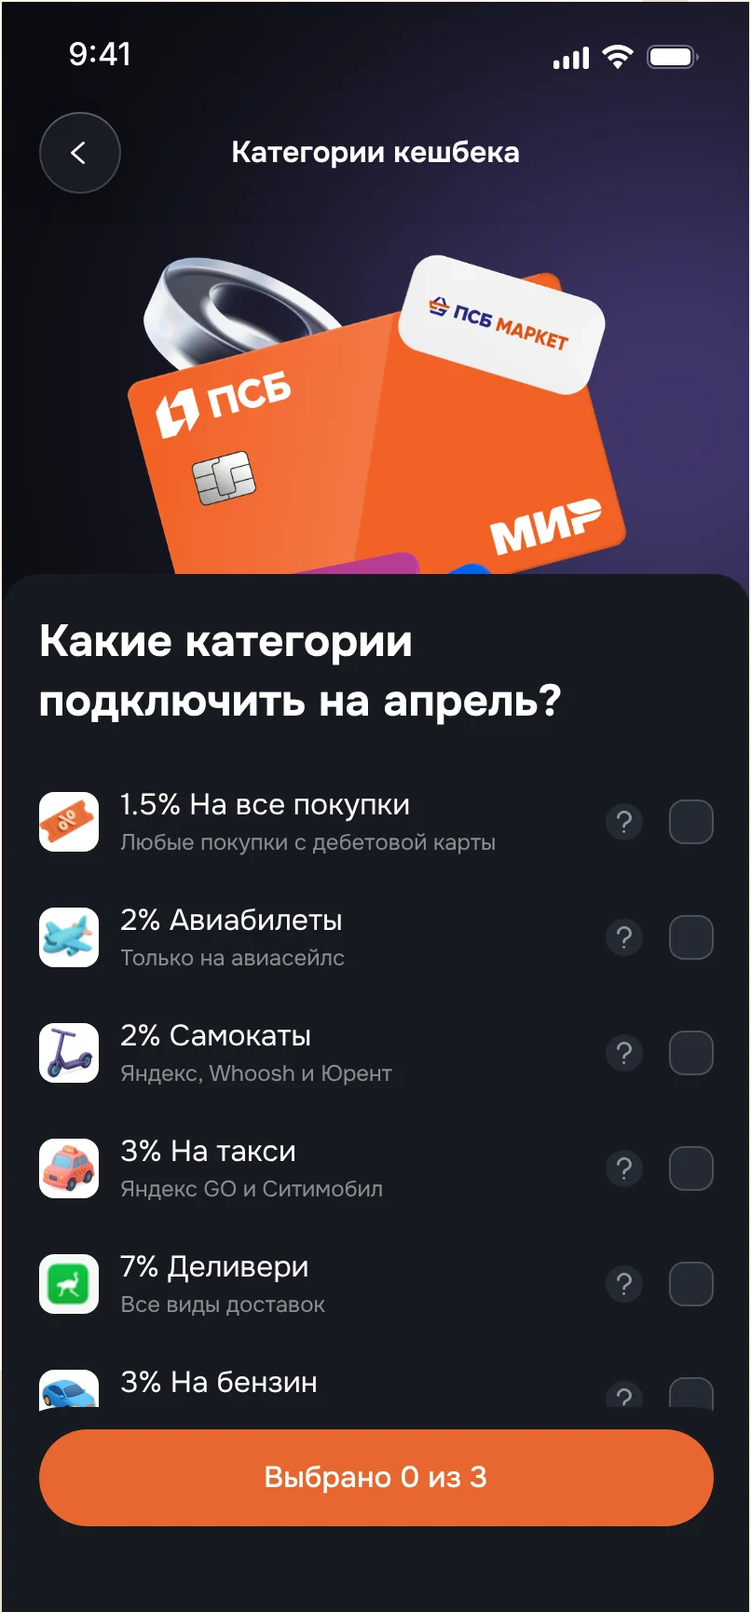
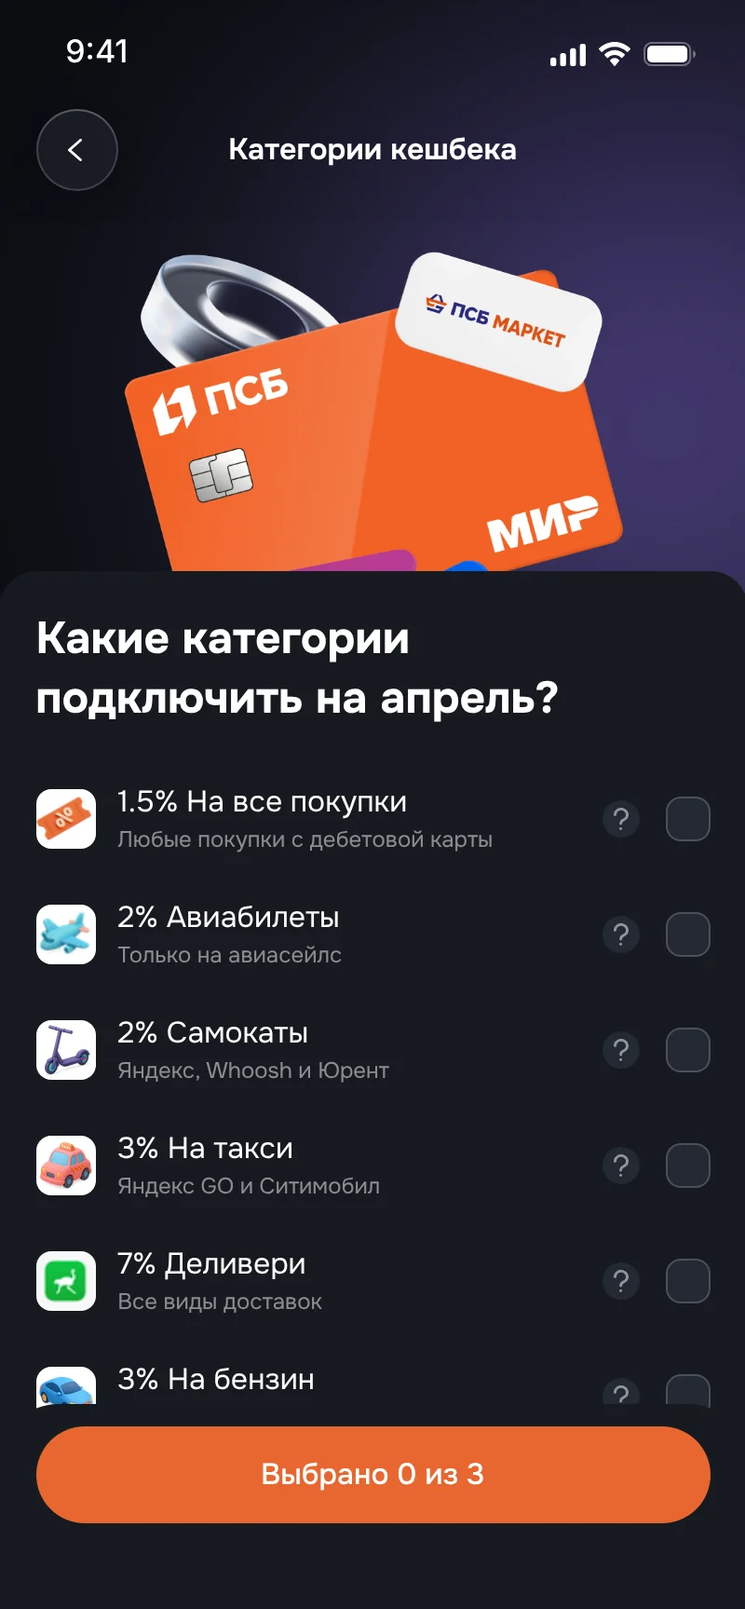
Crop the page background off the edges of the PSB race screens
Claude-Session: https://claude.ai/code/session_01K9M4KKip7VrCMi121CRaVU

diff --git a/CLAUDE.md b/CLAUDE.md
@@ -41,5 +41,5 @@
 - Готово (ветка `claude/wonderful-wright-xhhyv3`, слита в `main`): разгрузка обзора PSB — владелец счёл блоки «Проблемы и решения» и «Результаты» слишком тяжёлыми («слишком много акцентов одновременно»). Было шесть цветов, восемь плашек, десять крупных элементов, три анимации. Сделано: «Результаты» без плашек — шкалы прямо на листе, сетка 2×2 с пунктирами, как HUD Зельды поверх мира; все шкалы голубые, числа цвета чернил, розовые только сердечки (токены `--mana-*`, `--stamina-*`, `--heart-text` удалены). В колоде заданий без спрайтов и анимации, стрелка серая (`--text-disabled`), решение обычной насыщенности. Единственное движение на экране — шкалы. Затем по замечаниям владельца: подписи в карточках колоды и шкал — полужирные цвета чернил в размере основного текста (мелкие серые «Главная», «Данные карты» терялись); в «Результатах» сначала число, под ним шкала, между шагами и временем 24px, вокруг пунктиров `--space-stack` (было слипшимся). «Результаты» всё равно были «тяжеловато и скомканно» — переделаны в ряд метрик одной структуры (`Hud.astro`, по руководству dataviz: KPI-ряд одинаковых плиток): подпись, крупное число Fira Sans semibold с мелкой единицей, строки пояснения, одна шкала, прижатая к низу, чтобы шкалы стояли на одной линии. Четыре в ряд (контейнер ≤720px — 2×2), без плашек и пунктиров. Время — одна полоса: светлый трек того же голубого — «было», заливка — «стало»; ячейки шагов убраны, шаги в пояснении («5 шагов вместо 12»); мана — полоса; лёгкость — сердечки. Отступы проверены замером по закону близости (NN/g «Proximity»: заголовок ближе к своему тексту, чем к предыдущему; правило «внутри ≤ снаружи», равенство делает группы неоднозначными): заголовок блока → содержимое 16px, между карточками колоды 24px (рамка сайта; было 20 = внутреннему полю), колонки метрик 40px (на ≤720px — 24), сноска под метриками на 40px, как ряды. В метрике шкала сразу под числом (12px), пояснения под шкалой: раньше шкала прижималась к низу и отрывалась от числа. На телефоне общее `.sheet > * + * { 24px }` перебивало отступ подразделов — для `.sub-title`, `.quests`, `.results` там 48px.
 - Готово (ветка `claude/wonderful-wright-xhhyv3`, слита в `main`): «Результаты» PSB — шкалы, как в Зельде (`components/case/Hud.astro`, данные `stats` в `psb.astro`, запуск `initHud` в `case.ts`). Шаги — ячейки, лишние гаснут с конца; время — две полосы выносливости «было/стало» (зелёная), «стало» сжимается от прежней длины; first click success — мана (лиловая); SEQ — семь сердечек (розовые), неполное заливается целыми пикселями. Играют один раз при появлении, при reduced motion и без JS сразу конечное состояние. Цифры в тон шкале, затемнённые до 3:1 (токены `--mana-*`, `--stamina-*`, `--heart-*` в `colors.css`, полосы — цвета поляны футера), шаги остаются голубыми; Fira Mono (у Handjet перечёркнутый ноль, 105 читалось как 185). Владелец выбрал их из трёх набросков; не выбраны окно итогов боя в духе Final Fantasy и «сравнение снаряжения». Обзор: вступление — история, «Задания» — пары «проблема → решение», «Результаты» — цифры. Блок «Проблемы и решения» (раньше «Задания», переименовал владелец; `components/case/QuestDeck.astro`, данные `quests` в `psb.astro`) — колода карточек, рифмуется с «Результатами»: те же карточки (`--surface-raised`, пиксельные углы) в той же сетке 2×2, сверху подпись (спрайт 2px на пиксель + название-ссылка на раздел), ниже приглушённая проблема, голубая пиксельная стрелка вниз и крупно решение — как большое число на шкалах; стрелка с решением прижаты к низу, чтобы решения в ряду стояли на одной линии. При появлении стрелки по очереди «шагают» вниз (тот же `initHud` через `data-hud`), при reduced motion сразу. Зачёркивание проблемы владелец отклонил (читается хуже, похоже на ошибку); не выбраны также подписи «Было / Стало», значки «!» и галочки, пунктир. На телефоне (контейнер ≤560px) колода листается свайпом по одной карточке со scroll-snap, следующая выглядывает, под ней точки (`initQuestDeck` в `case.ts`). В карточке по одной целой мысли на проблему и на решение, понятной без раздела ниже: сокращения до 4–6 слов («Третья вкладка и CVV по СМС») владелец счёл непонятными; слово из подписи в тексте не повторять («Их можно…»). Иконки заголовков — пиксельные `scroll` (свиток задания, закрученный край сверху и валик снизу; симметричный вариант читался как колонна) и `trophy` (кубок у «Результатов»: столбики графика владелец счёл неподходящими); неиспользуемые `alert`, `spark`, `trend` удалены из `pixel-icons.ts`. Отклонены: полоса из четырёх столбцов (на телефоне «месиво»), две колонки абзацев («простыня текста»), задания внутри карточек результатов. Перед «Заданиями» и «Результатами» отступ `--space-article`, как между подразделами: с обычным отступом вступление, задания и результаты сливались в один поток. Главное в блоке — связка проблемы и решения: убрать проблемы ради разгрузки было ошибкой (владелец: «должны показать проблему и её решение»). «Результаты» — четыре карточки: кешбэк и данные карты (в каждой шаги ячейками и время полосами, `kind: 'flow'` в `Hud.astro`), мана и сердечки. Владелец отклонил: журнал с вкладками (тёмная активная вкладка и плашки тяжелы рядом со шкалами; прятать суть кейса во вкладки нельзя — NN/g «Tabs, Used Right», GOV.UK «tabs hide content», нанимающие сканируют портфолио), добычу (монеты, рупии) в заданиях — перегруз мелкими элементами и повтор цифр результатов, «дебафф → бафф», статус-эффекты, карточки предметов, плашки с отрядом.
 - Готово (ветка `claude/charming-cray-bsbm8d`): на телефоне страница PSB больше не прокручивается вбок в пустоту — скрытые подписи «Было/Стало» в колоде «Проблемы и решения» (`position: absolute`) вылезали из свайп-ленты и растягивали страницу вдвое; `.quest` теперь `position: relative`. Живые прототипы снова на Onest: приложение задаёт шрифт на `<body>`, которого в shadow root нет, и туда протекал Fira Sans страницы — шрифт задан на `.app` в `LivePhone.astro`.
-- Готово (ветка `claude/loving-mayer-3zliux`): «до/после» в разделе «Подключение кешбэка» PSB — забег (`components/case/Race.astro`, `initRace` в `case.ts`, данные `race` у направления в `psb.astro`). Владелец выбрал его из трёх набросков; не выбраны маршрут (дорога в масштабе времени) и стопки экранов, отклонены две карусели и сетка маленьких экранов «до». Два iPhone 17 Pro рядом, «Было» и «Стало», стартуют вместе, когда забег на экране, и идут по измеренным медианам (105 и 23 с), ускоренно в 7 раз; вне экрана пауза, кнопка «Ещё раз». Экраны распределены по времени равномерно (время отдельных шагов не мерили), следующий въезжает коротким сдвигом поверх прежнего. Под телефоном полоса времени в общем масштабе (по самому долгому пути: «Было» заполняет её целиком серым, «Стало» останавливается на 23 с голубым; сегментированные ячейки владелец забраковал), таймер Fira Sans, «Шаг N из M · подпись экрана», на финише «кешбэка нет» / «готово». Когда старый путь уходит из приложения, у подписи «Было» голубым «почта» / «браузер» (`away`). Без JS и при reduced motion — финиш. `Phone` принимает массив экранов (видим `is-on`, по умолчанию последний). Экраны «до» — исходный флоу из Figma-файла PSB (секция «Пользователь подключает кешбэк», node 28-489), 11 штук `public/assets/cases/psb/before/cb-*.webp` 590×1280, последний — та же главная без кешбэка. Экраны вычищены под iPhone скриптом `tools/psb-before/render.mjs` (canvas в Chromium, исходники из Figma в `tools/psb-before/src/`): Android-статусбар и панель кнопок заменены статусбаром iOS «9:41» и полоской «домой», у iOS-экранов статусбар перерисован так же, на главной убраны красные рамки-пометки сценария, замазанная почта заменена выдуманной ivan.petrov@mail.ru. «Стало» — шесть экранов, снятых с живого прототипа «Подключение кешбэка» из «Финальных экранов» (`public/assets/cases/psb/race/`): «Хочу подключить», выбор без отметок, по очереди отмечены «Авиабилеты», «Такси», «Деливери» (категорий три, кнопка считает «Выбрано N из 3» и на третьей становится «Подключить», остальные чекбоксы гаснут), успех. Снимались Playwright-ом: телефон вынут из колоды в фиксированный блок 441px, заглушка и корпус скрыты, свой «остров» приложения (`.portfolio-island`) спрятан, клики — `el.click()` (у телефонов колоды не на переднем плане клики выключены). Внутри одного экрана (поставили галочку, `same: true`) экран меняется без сдвига — сдвиг на каждой галочке владелец назвал «адской тряской». Экраны забега грузятся заранее и забег стартует после `decode()`, иначе при первой смене мелькал чёрный экран. `cb-off.webp`, `cb-connect.webp`, `success.webp` не трогать: по ним измерены нажатия в `TestingScene`. Текст «Проблема / Решение / Результат» переписан по флоу: где прятался кешбэк, почему путь длинный (почта, браузер, ошибка, согласие), что теперь (внутри приложения, сразу виден у баланса), одна главная цифра и честный минус (63% без ошибок).
+- Готово (ветка `claude/loving-mayer-3zliux`): «до/после» в разделе «Подключение кешбэка» PSB — забег (`components/case/Race.astro`, `initRace` в `case.ts`, данные `race` у направления в `psb.astro`). Владелец выбрал его из трёх набросков; не выбраны маршрут (дорога в масштабе времени) и стопки экранов, отклонены две карусели и сетка маленьких экранов «до». Два iPhone 17 Pro рядом, «Было» и «Стало», стартуют вместе, когда забег на экране, и идут по измеренным медианам (105 и 23 с), ускоренно в 7 раз; вне экрана пауза, кнопка «Ещё раз». Экраны распределены по времени равномерно (время отдельных шагов не мерили), следующий въезжает коротким сдвигом поверх прежнего. Под телефоном полоса времени в общем масштабе (по самому долгому пути: «Было» заполняет её целиком серым, «Стало» останавливается на 23 с голубым; сегментированные ячейки владелец забраковал), таймер Fira Sans, «Шаг N из M · подпись экрана», на финише «кешбэка нет» / «готово». Когда старый путь уходит из приложения, у подписи «Было» голубым «почта» / «браузер» (`away`). Без JS и при reduced motion — финиш. `Phone` принимает массив экранов (видим `is-on`, по умолчанию последний). Экраны «до» — исходный флоу из Figma-файла PSB (секция «Пользователь подключает кешбэк», node 28-489), 11 штук `public/assets/cases/psb/before/cb-*.webp` 590×1280, последний — та же главная без кешбэка. Экраны вычищены под iPhone скриптом `tools/psb-before/render.mjs` (canvas в Chromium, исходники из Figma в `tools/psb-before/src/`): Android-статусбар и панель кнопок заменены статусбаром iOS «9:41» и полоской «домой», у iOS-экранов статусбар перерисован так же, на главной убраны красные рамки-пометки сценария, замазанная почта заменена выдуманной ivan.petrov@mail.ru. «Стало» — шесть экранов, снятых с живого прототипа «Подключение кешбэка» из «Финальных экранов» (`public/assets/cases/psb/race/`): «Хочу подключить», выбор без отметок, по очереди отмечены «Авиабилеты», «Такси», «Деливери» (категорий три, кнопка считает «Выбрано N из 3» и на третьей становится «Подключить», остальные чекбоксы гаснут), успех. Снимались Playwright-ом: телефон вынут из колоды в фиксированный блок 441px, заглушка и корпус скрыты, свой «остров» приложения (`.portfolio-island`) спрятан, клики — `el.click()` (у телефонов колоды не на переднем плане клики выключены); по краям снимка 2px фона страницы, обрезаны по 3px сверху и с боков. Внутри одного экрана (поставили галочку, `same: true`) экран меняется без сдвига — сдвиг на каждой галочке владелец назвал «адской тряской». Экраны забега грузятся заранее и забег стартует после `decode()`, иначе при первой смене мелькал чёрный экран. `cb-off.webp`, `cb-connect.webp`, `success.webp` не трогать: по ним измерены нажатия в `TestingScene`. Текст «Проблема / Решение / Результат» переписан по флоу: где прятался кешбэк, почему путь длинный (почта, браузер, ошибка, согласие), что теперь (внутри приложения, сразу виден у баланса), одна главная цифра и честный минус (63% без ошибок).
 - Дальше: остальные страницы кейсов проектируем заново, черновик Claude Design для них не используем.
